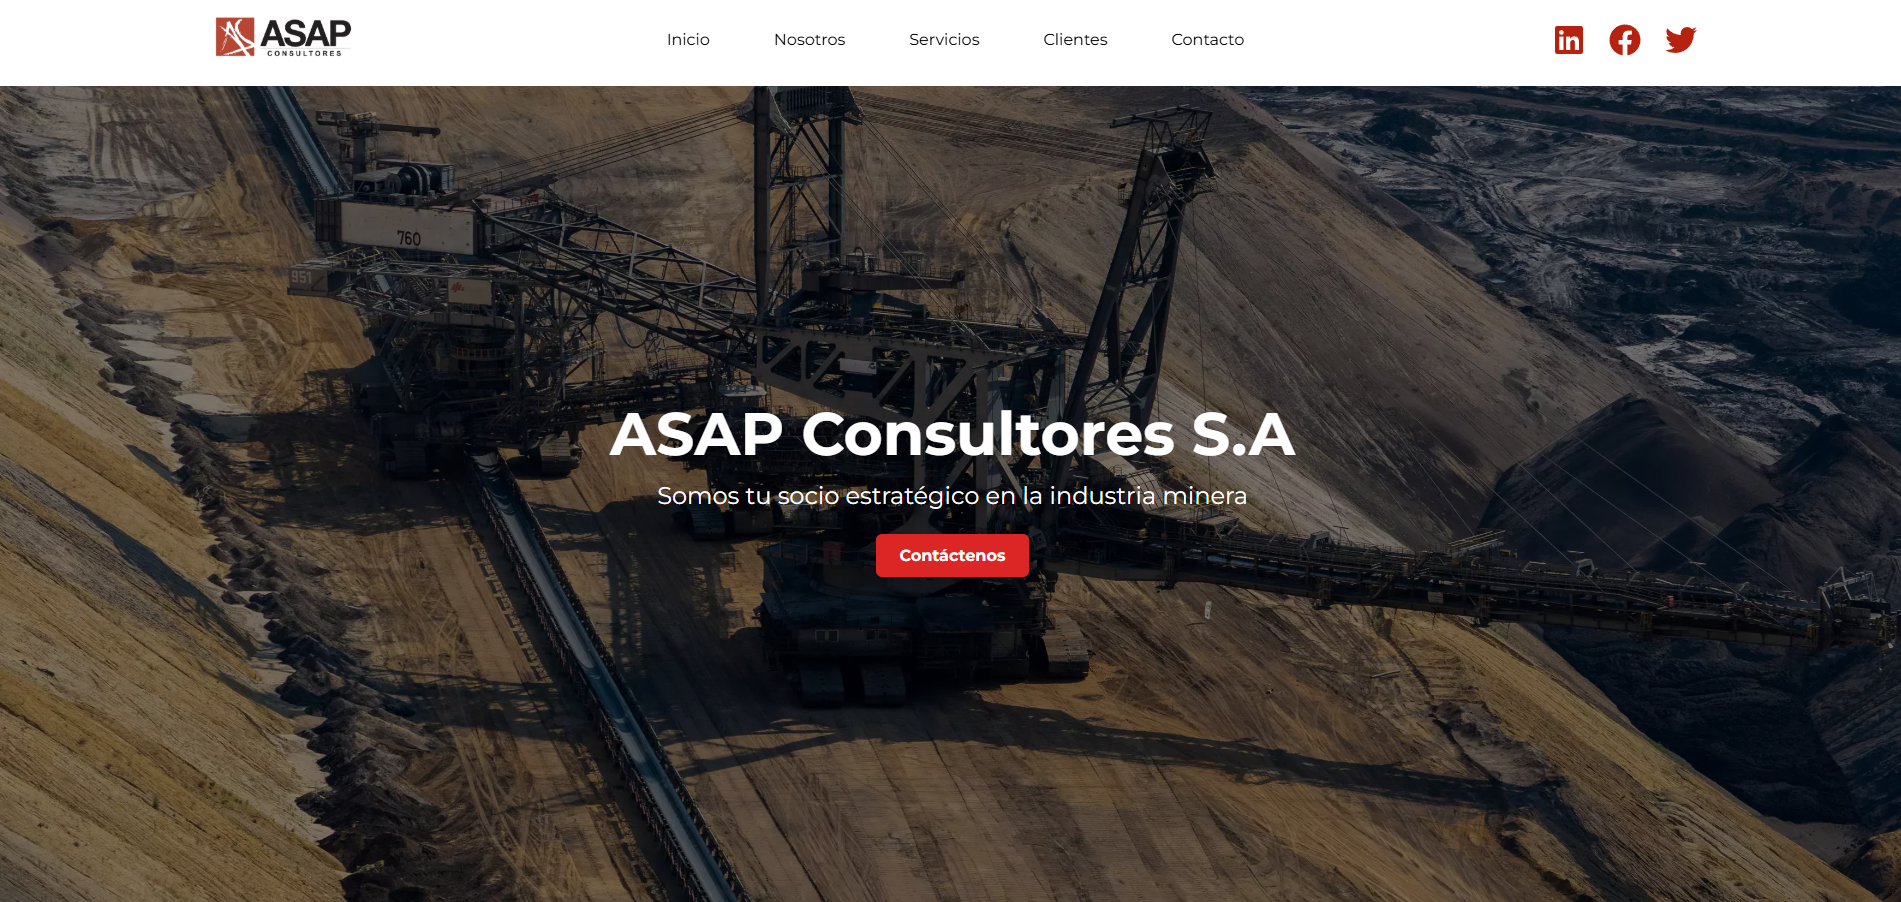
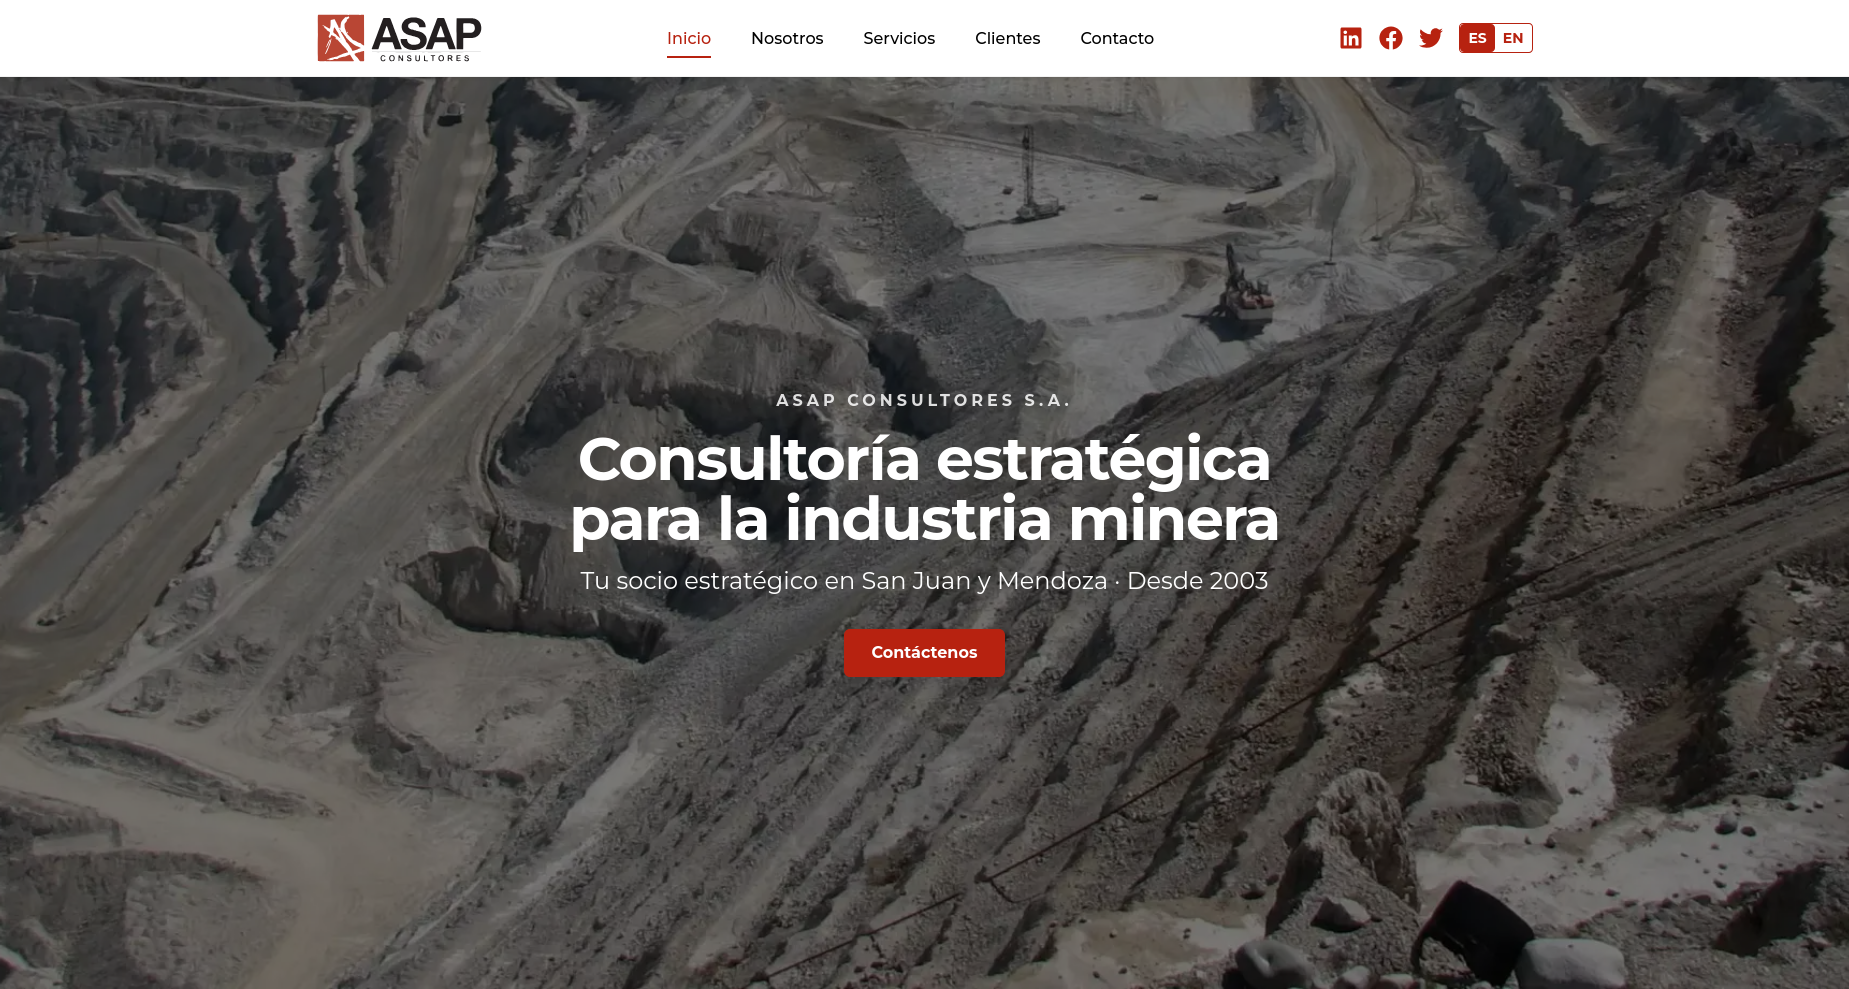
feat: update client work images and AccesoriossTina description

diff --git a/content/projects.ts b/content/projects.ts
@@ -219,8 +219,8 @@ export const clientWork: Project[] = [
     name: { es: "AccesoriossTina", en: "AccesoriossTina" },
     url: "https://accesoriosstina.vercel.app/",
     desc: {
-      es: "Desarrollo del sitio de AccesoriossTina, con autenticación de usuarios, gestión de insumos y control de stock.",
-      en: "Development of the AccesoriossTina website, with user authentication, supplies management, and stock control.",
+      es: "E-commerce de AccesoriossTina, un emprendimiento de accesorios hechos a mano. Catálogo con carrito junto con un panel de administración.",
+      en: "E-commerce for AccesoriossTina, a small business selling handmade accessories. Catalog with a cart, along with an admin panel.",
     },
     role: developer,
     tags: [],
